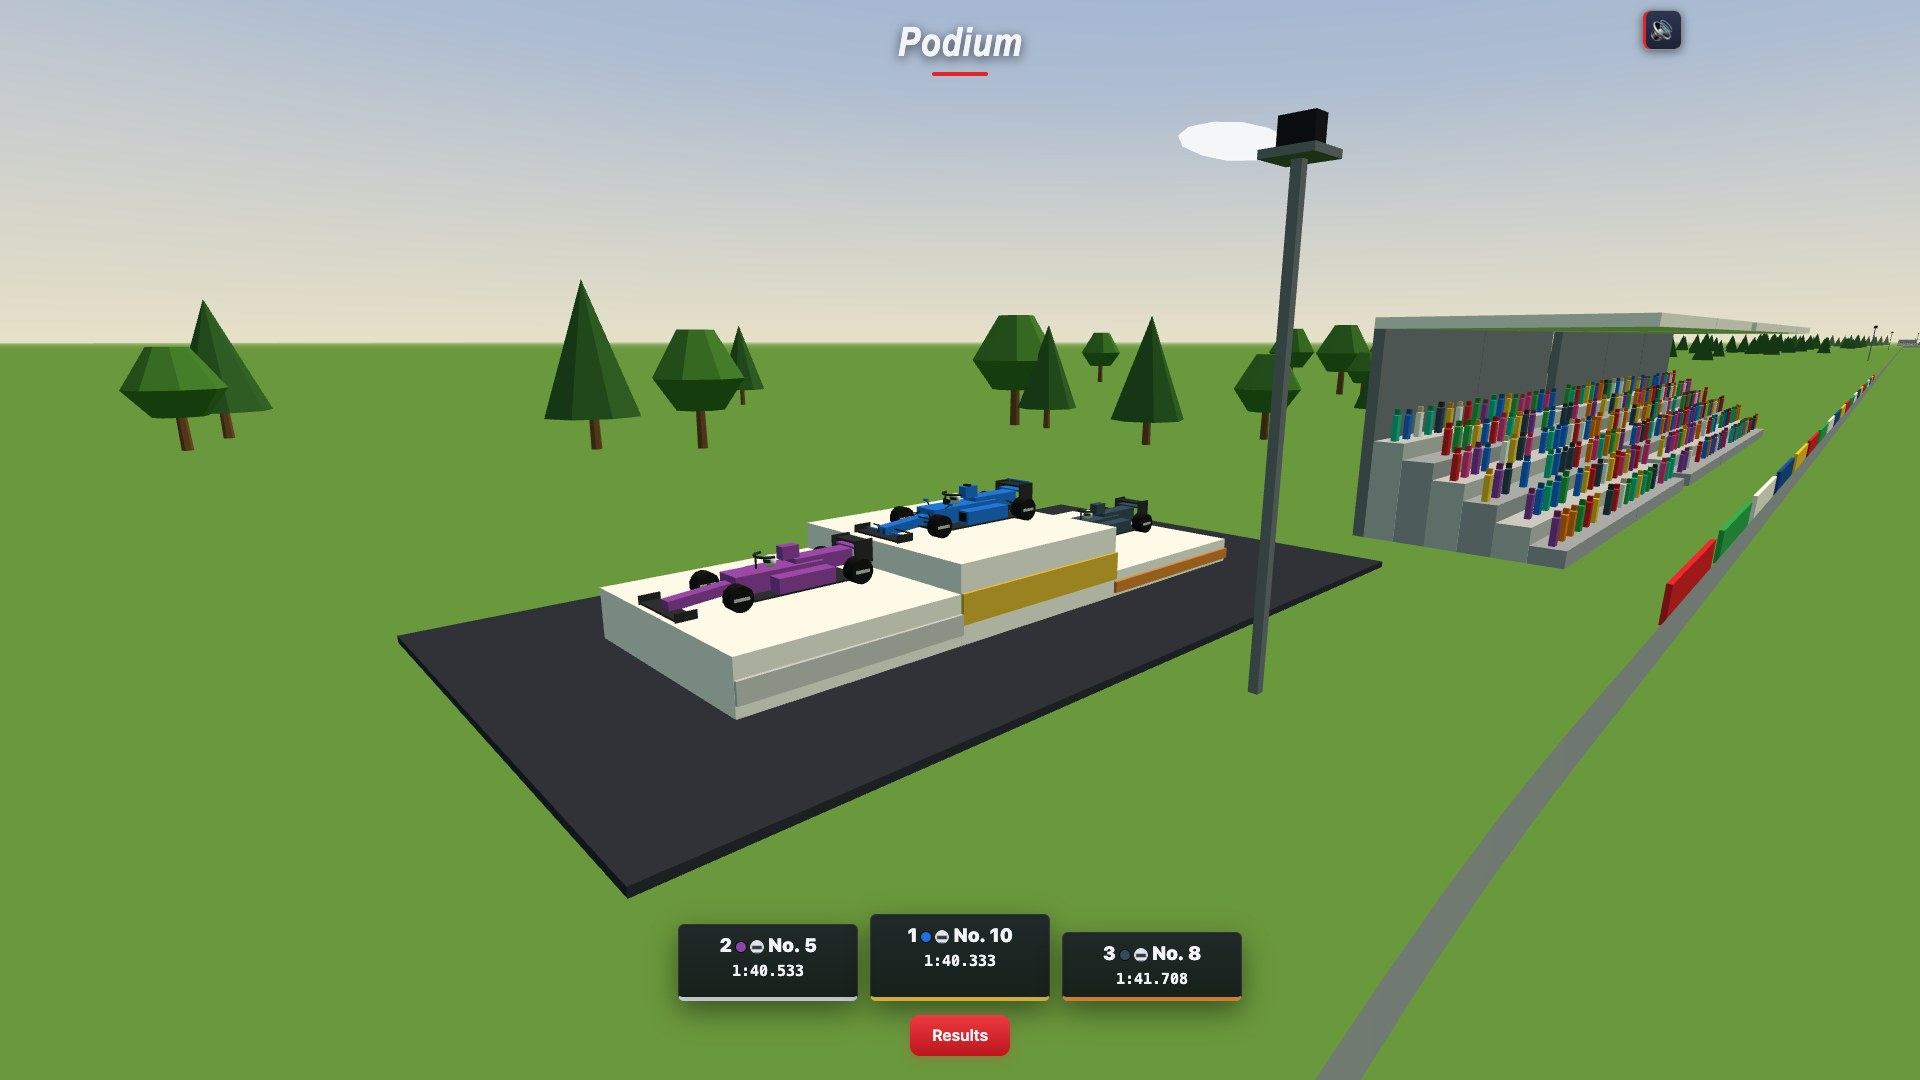
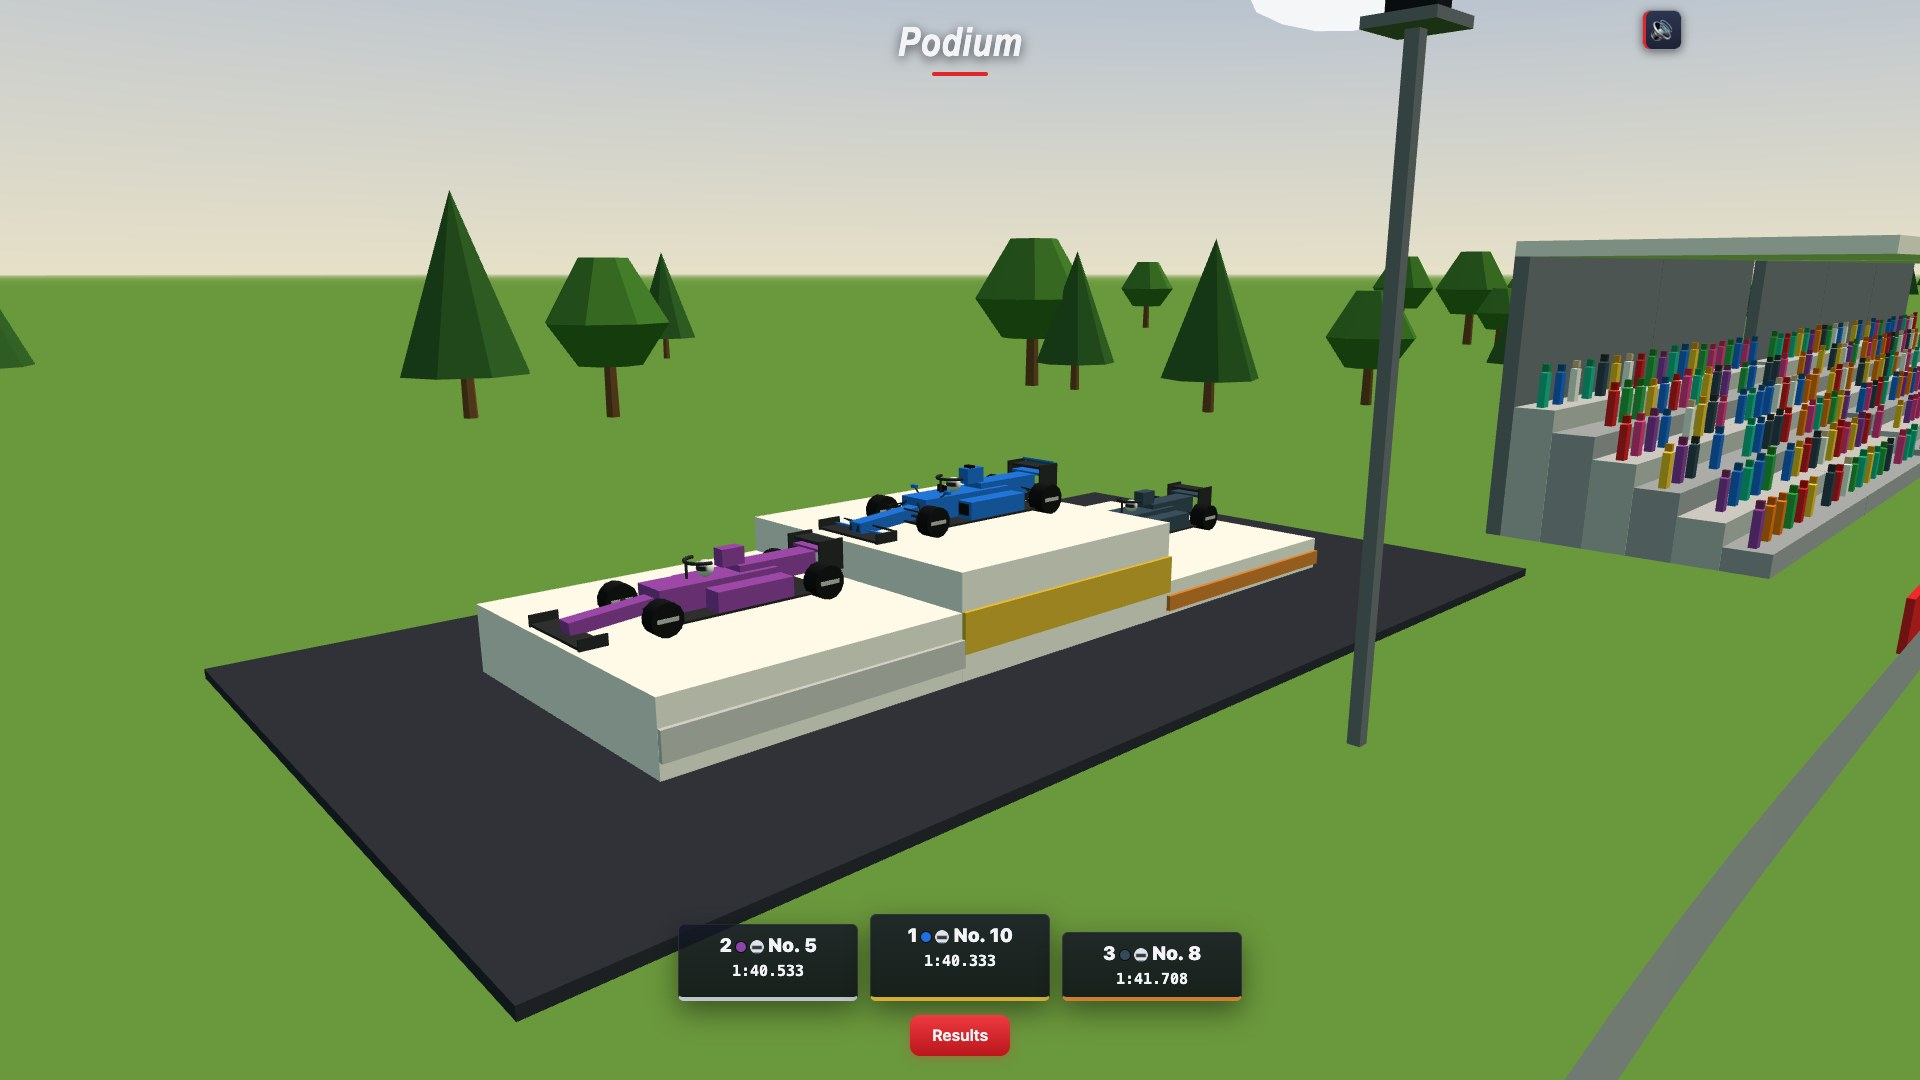
Tour 37c : les captures poki/ refaites (paddock rempli, « Teammate duel: »)

diff --git a/poki/fiche-poki.md b/poki/fiche-poki.md
@@ -74,5 +74,6 @@ Quand ta carrière s’arrête, ton histoire continue : la relève prend le vola
 - Le jeu se joue au clavier et à la manette. Le tactile n'est pas prévu : il faut le dire à Poki (« desktop only »).
 - **Ce que montrent les captures (2026-10-29), à corriger avant l'envoi** :
   - Les rivaux et les écuries portent encore leurs noms provisoires (« Pilote 2 », « Écurie 1 » ; « Driver 2 », « Team 1 »), parce que `NOMS_PILOTES` est vide dans `donnees.js`. Sur la capture du paddock, des noms inventés feraient bien plus vrai.
-  - En anglais, le paddock affiche « Teammate duel : You… », avec une espace avant les deux-points. Cette espace est écrite en dur dans `interface.js` (ligne 185, `' : '`).
+  - (Réglé au tour 37c : l'espace avant les deux-points en anglais, et le vide en haut du panneau des classements du paddock. Les captures ont été refaites.)
+  - Les noms proposés sont dans `poki/noms-a-valider.md`.
   - Les captures gardent l'interface de course, comme dans le vrai jeu. Seule la bulle des aides est masquée.
